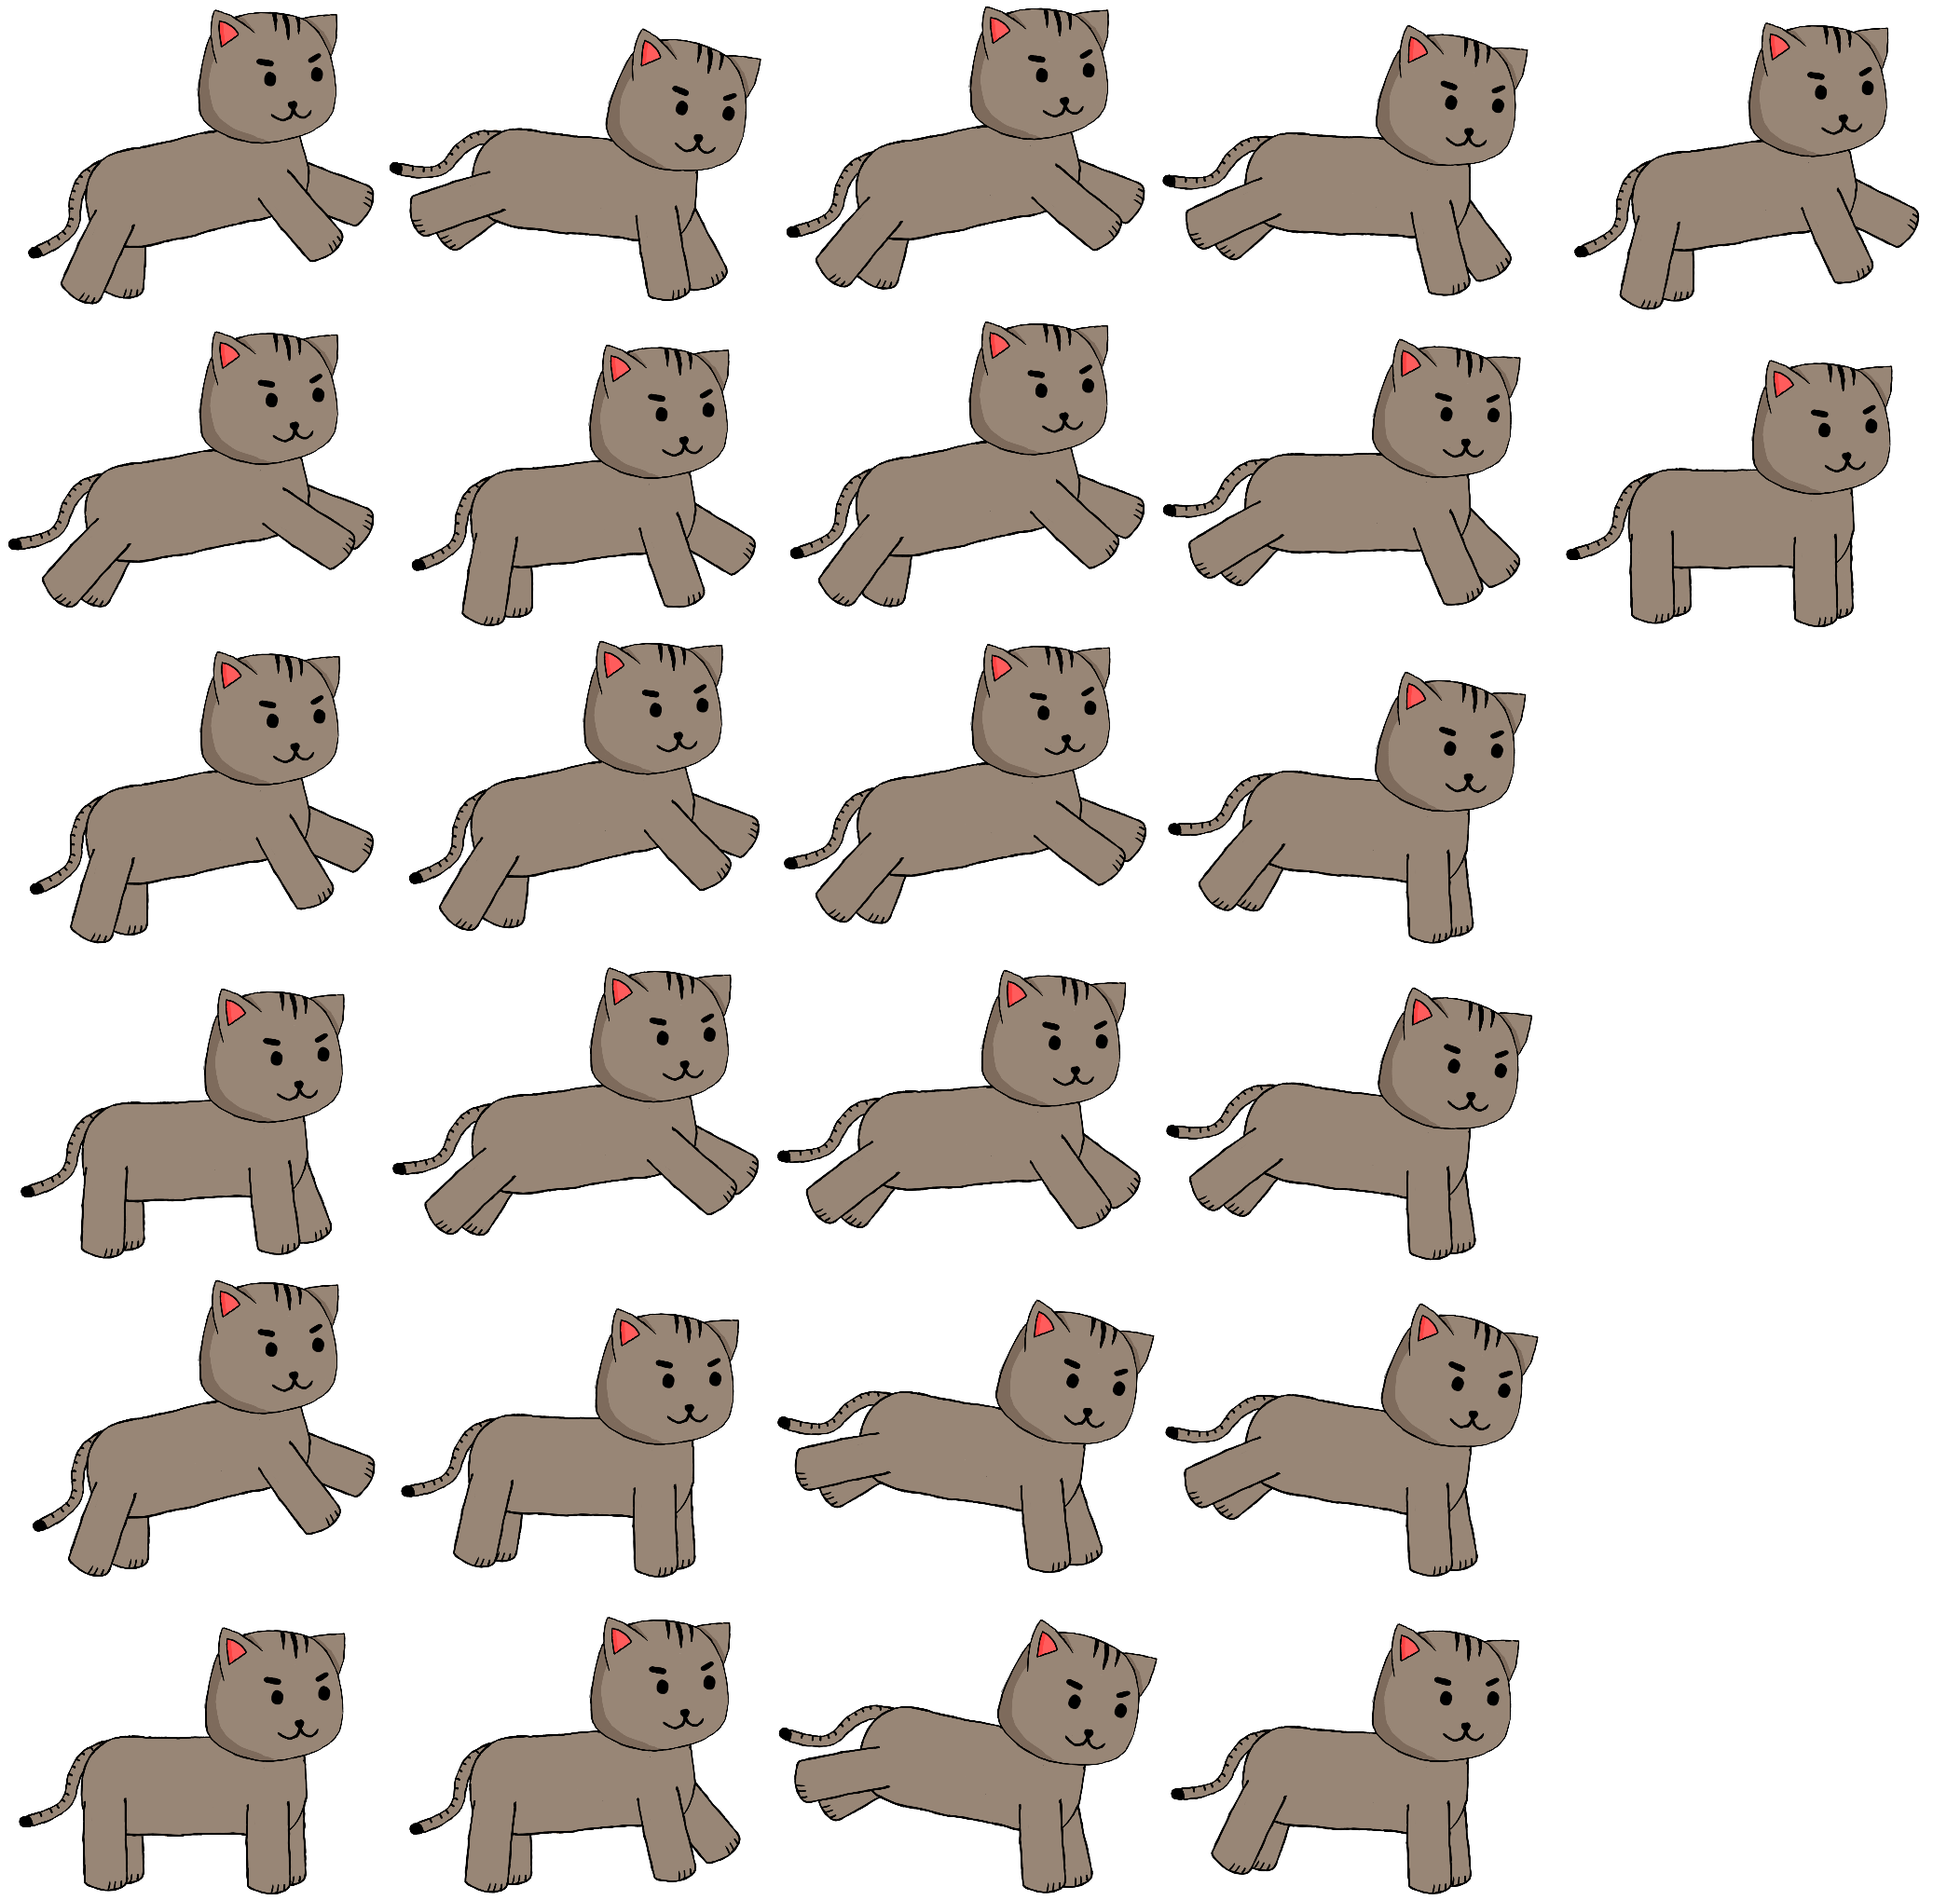
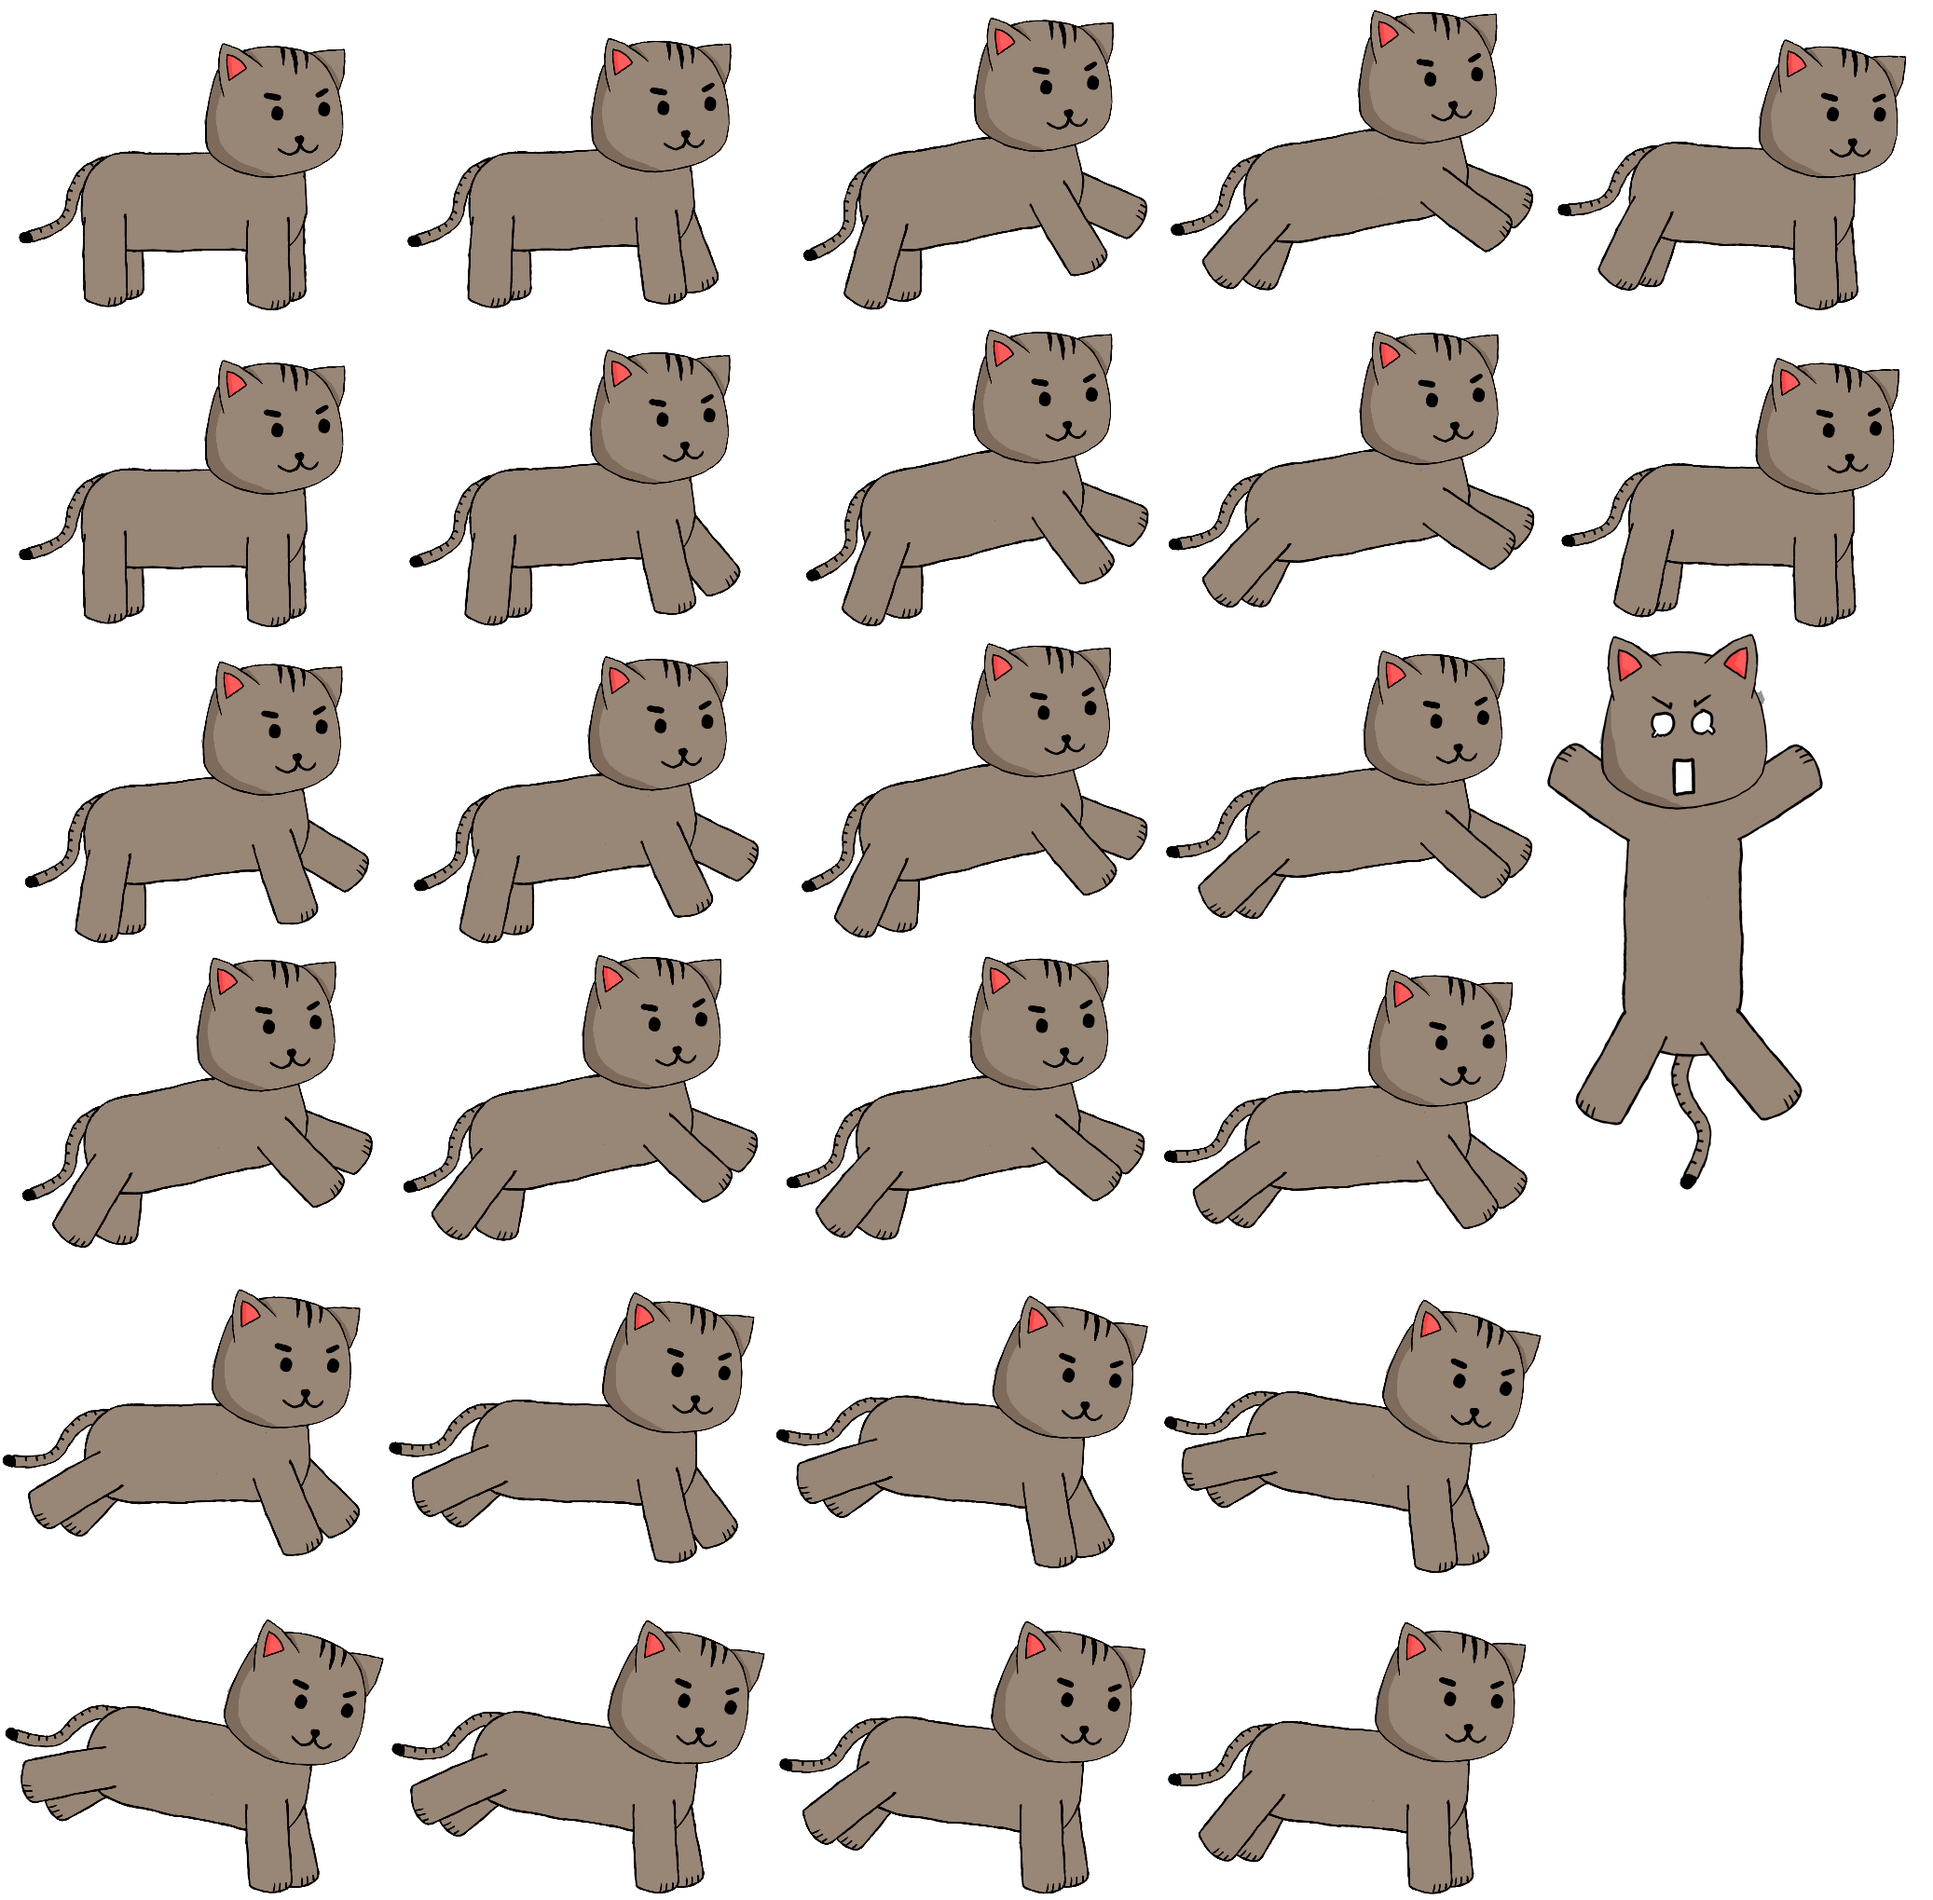
Player respawn, cat death frame, moved preload

diff --git a/Client/scenes/main.js b/Client/scenes/main.js
@@ -1,5 +1,4 @@
 import { Scene } from 'phaser';
-import Websocket from 'socket.io-client';
 
 export default class Main extends Scene {
 
@@ -7,20 +6,9 @@ export default class Main extends Scene {
         super({ key: 'main' });
     }
 
-    preload() {
-        // map made with Tiled in JSON format
-        this.load.tilemapTiledJSON('map', 'map.json');
-        // tiles in spritesheet 
-        this.load.spritesheet('tiles', 'images/tiles.png', { frameWidth: 70, frameHeight: 70});
-        // simple coin image
-        this.load.image('coin', 'images/coinGold.png');
-        this.load.image('spikeTrap', 'images/spikesTrap.png');
-        // player animations
-        this.load.atlas('player', 'images/cat.png', 'cat.json');
-    }
+    preload() {}
 
     init() {
-        this.server = Websocket(`${location.hostname}:9208`);
 
         this.map;
         this.player;
@@ -39,14 +27,14 @@ export default class Main extends Scene {
     create() {
 
         // load the map 
-        this.map = this.make.tilemap({key: 'map'});
+        this.map = this.make.tilemap({key: 'maps'});
     
         let graphics = this.add.graphics();
         
         // tiles for the ground layer
-        let groundTiles = this.map.addTilesetImage('tiles');
+        this.groundTiles = this.map.addTilesetImage('tiles');
         // create the ground layer
-        this.groundLayer = this.map.createDynamicLayer('World', groundTiles, 0, 0);
+        this.groundLayer = this.map.createDynamicLayer('World', this.groundTiles, 0, 0);
         // the player will collide with this layer
         this.groundLayer.setCollisionByExclusion([-1]);
      
@@ -55,7 +43,7 @@ export default class Main extends Scene {
         this.physics.world.bounds.height = this.groundLayer.height;
     
         // create the player sprite    
-        this.player = this.physics.add.sprite(166, 444, 'player'); 
+        this.player = this.physics.add.sprite(400, 1420, 'player'); 
         this.player.setScale(.3)
               .setSize(330,275)
               .setOffset(40,45)
@@ -86,6 +74,11 @@ export default class Main extends Scene {
         this.anims.create({
             key: 'idle',
             frames: [{key: 'player', frame: 'Idle'}],
+            frameRate: 10,
+        });
+        this.anims.create({
+            key: 'ded',
+            frames: [{key: 'player', frame: 'Ded'}],
             frameRate: 10,
         });
     
@@ -161,9 +154,6 @@ export default class Main extends Scene {
         }
     }
 
-    render(){
-    }
-
     collectCoin(sprite, tile) {
         this.coinLayer.removeTileAt(tile.x, tile.y); // remove the tile/coin
         this.score ++; // increment the score
@@ -173,16 +163,36 @@ export default class Main extends Scene {
 
     killPlayer (sprite, tile) {
         this.alive = false
-        console.log('function call');
         this.physics.world.colliders.destroy();
         this.cameras.main.stopFollow();
+        this.player.anims.play('ded', true);
         
         this.player.body.allowRotation = true
-        this.player.body.angularVelocity = 1000
+        this.player.body.angularVelocity = 500
         this.player.body.setVelocityX((Math.random() * 1000)-500)
         this.player.body.setVelocityY(-200);  
     
         this.player.setCollideWorldBounds(false);
+
+        // Player respawn
+        setTimeout(() => {
+            this.cameras.main.startFollow(this.player);
+            this.alive = true
+
+            this.physics.add.collider(this.groundLayer, this.player)
+            this.physics.add.collider(this.player, this.spikes, this.killPlayer, null, this);
+            this.physics.add.overlap(this.player, this.coinLayer);
+  
+
+            this.player.setCollideWorldBounds(true);
+            this.player.setVelocity(0,0)
+            this.player.body.angularVelocity = 0
+            this.player.setX(400)
+            this.player.setY(1420)
+            this.player.setRotation(0)
+            this.player.anims.play('idle',true)
+            this.player.body.allowRotation = false
+        }, 3000);
     
         return false;
     }

diff --git a/Client/scenes/loading.js b/Client/scenes/loading.js
@@ -11,6 +11,19 @@ export default class Loading extends Scene {
         // Load audio assets..
         this.load.audio('music:main', 'audios/musics/main.mp3');
 
+        // Load tilemap assets..
+        this.load.tilemapTiledJSON('maps', 'map.json');
+        
+        // Load spritesheet assets..
+        this.load.spritesheet('tiles', 'images/tiles.png', { frameWidth: 70, frameHeight: 70});
+        
+        // Load images assets
+        this.load.image('coin', 'images/coinGold.png');
+        this.load.image('spikeTrap', 'images/spikesTrap.png');
+
+        // Load atlas assets
+        this.load.atlas('player', 'images/cat.png', 'cat.json');
+
         // Show loading..
         this.add.text(this.cameras.main.width - 15, 5, 'Loading..', {
             color: '#FFFFFF',
